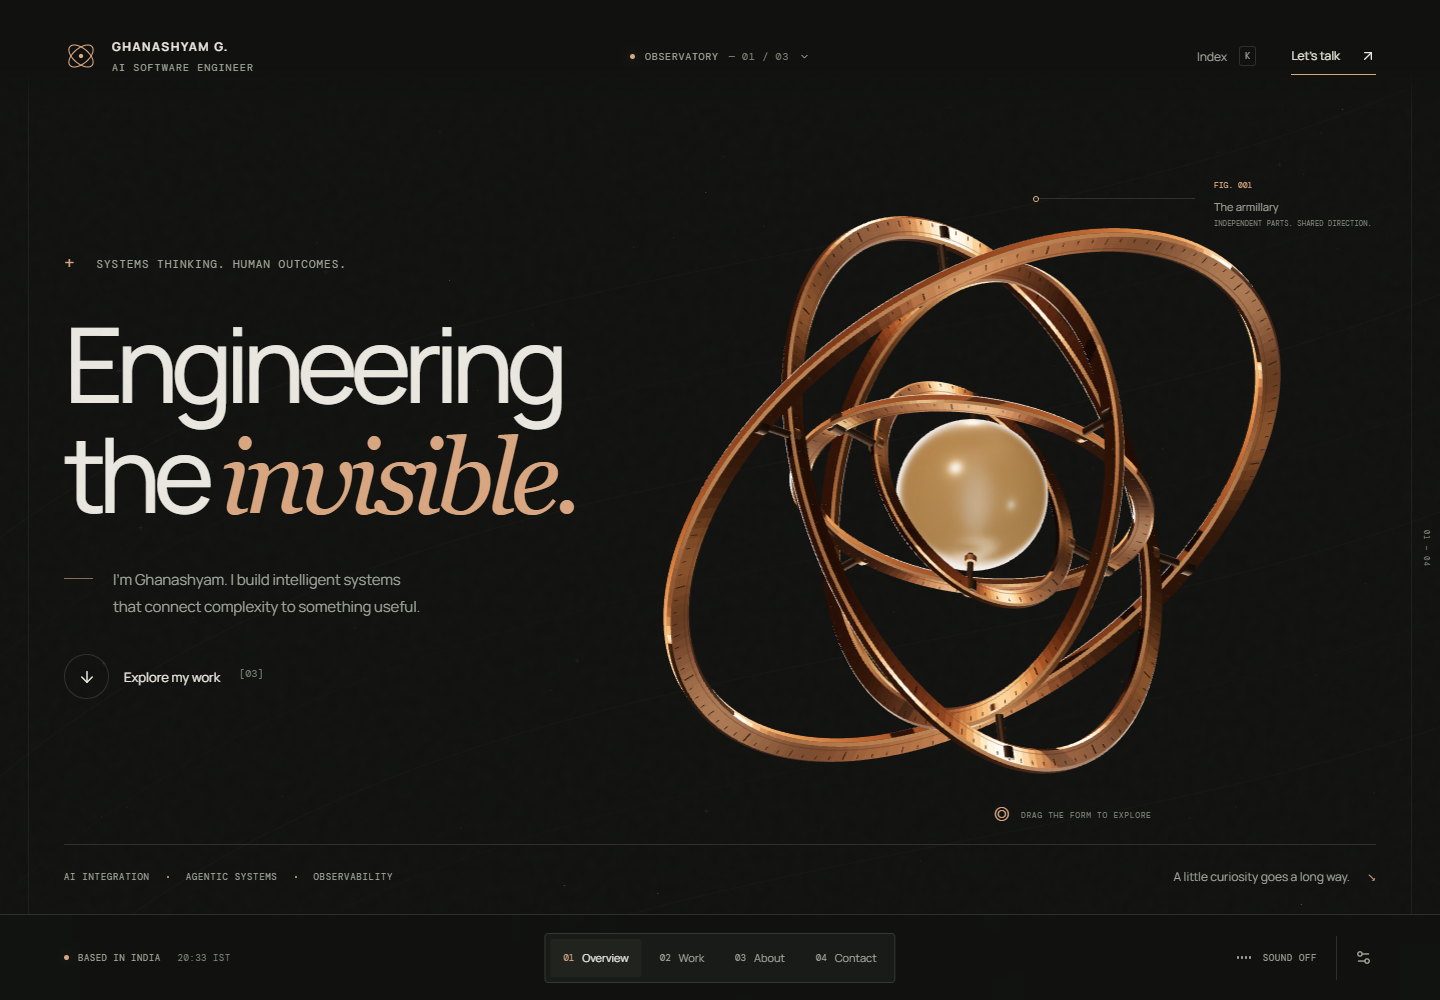
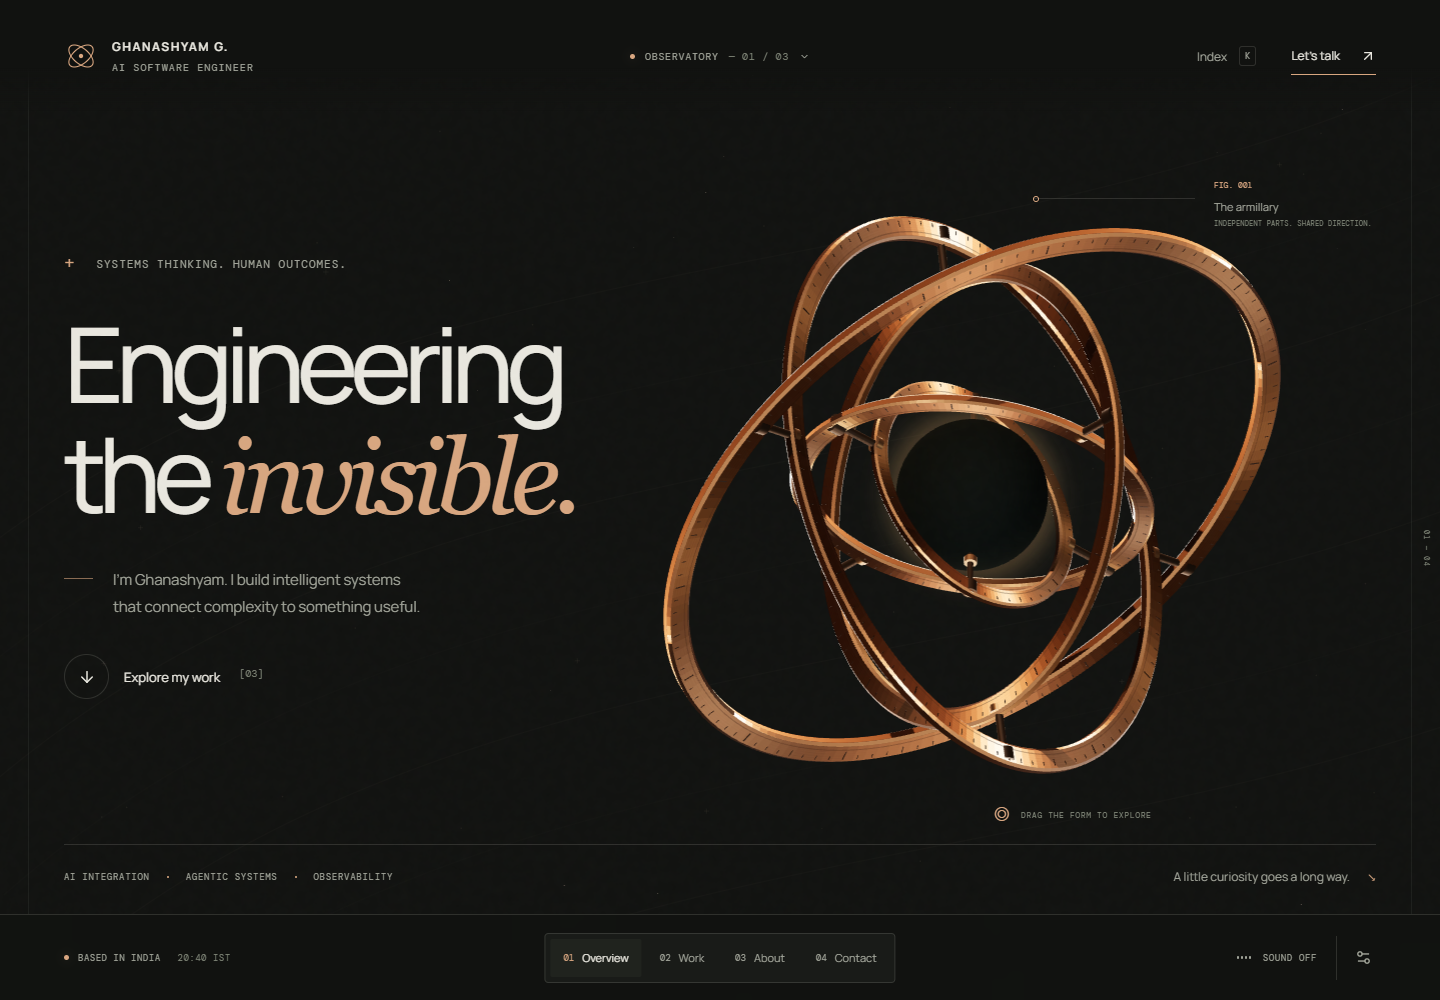
Restore the matte core with a diffuse halo

Changed region(s): [[0.5938, 0.403, 0.75, 0.589]]

diff --git a/components/observatory/armillary.ts b/components/observatory/armillary.ts
@@ -5,9 +5,9 @@ export type ArmillaryScene = "signal" | "systems" | "practice" | "contact";
 
 const TAU = Math.PI * 2;
 const FINISHES = {
-  copper: { band: "#9e633c", edge: "#bd8a61", bearing: "#594333", engraving: "#492f21", ceramic: "#8c6948", coreLight: "#efb66f", signal: "#ffe0b1" },
-  silver: { band: "#a3b1b5", edge: "#d0dadf", bearing: "#53636a", engraving: "#465359", ceramic: "#75888e", coreLight: "#b5d6e6", signal: "#d6edfb" },
-  ink: { band: "#526252", edge: "#98a18b", bearing: "#36483c", engraving: "#aeb49d", ceramic: "#67715a", coreLight: "#d6c092", signal: "#c29b65" },
+  copper: { band: "#9e633c", edge: "#bd8a61", bearing: "#594333", engraving: "#492f21", ceramic: "#242825", coreLight: "#efb66f", signal: "#ffe0b1" },
+  silver: { band: "#a3b1b5", edge: "#d0dadf", bearing: "#53636a", engraving: "#465359", ceramic: "#20282d", coreLight: "#b5d6e6", signal: "#d6edfb" },
+  ink: { band: "#526252", edge: "#98a18b", bearing: "#36483c", engraving: "#aeb49d", ceramic: "#26342c", coreLight: "#d6c092", signal: "#c29b65" },
 } satisfies Record<ArmillaryPalette, Record<string, string>>;
 type Finish = keyof typeof FINISHES.copper;
 
@@ -170,10 +170,27 @@ export function createArmillary(compact: boolean, palette: ArmillaryPalette) {
   const etching = material(new THREE.MeshStandardMaterial({ metalness: .4, roughness: .65, envMapIntensity: .5 }), "engraving");
   const tracks = material(new THREE.LineBasicMaterial({ transparent: true, opacity: .29, depthWrite: false }), "engraving");
   const ceramic = material(new THREE.MeshPhysicalMaterial({
-    metalness: .22, roughness: .28, clearcoat: .48, clearcoatRoughness: .24, envMapIntensity: .65,
-    emissive: finishTargets[palette].coreLight, emissiveIntensity: .28,
+    metalness: 0, roughness: .92, clearcoat: 0, specularIntensity: .08, envMapIntensity: .12,
   }), "ceramic");
-  changingColors.push({ color: ceramic.emissive, finish: "coreLight" });
+  // A separate, depth-tested halo glows outside the dark surface without adding sheen.
+  const haloSize = 128, haloPixels = new Uint8Array(haloSize * haloSize * 4);
+  for (let y = 0; y < haloSize; y++) {
+    for (let x = 0; x < haloSize; x++) {
+      const radius = Math.hypot((x + .5) / haloSize * 2 - 1, (y + .5) / haloSize * 2 - 1);
+      const light = Math.exp(-Math.pow(Math.max(0, radius - .58) / .145, 2));
+      const fade = 1 - THREE.MathUtils.smoothstep(radius, .88, 1);
+      const offset = (y * haloSize + x) * 4;
+      haloPixels[offset] = haloPixels[offset + 1] = haloPixels[offset + 2] = 255;
+      haloPixels[offset + 3] = Math.round(light * fade * 255);
+    }
+  }
+  const haloMap = new THREE.DataTexture(haloPixels, haloSize, haloSize, THREE.RGBAFormat);
+  haloMap.minFilter = haloMap.magFilter = THREE.LinearFilter;
+  haloMap.needsUpdate = true;
+  textures.add(haloMap);
+  const coreHaloMaterial = material(new THREE.SpriteMaterial({
+    map: haloMap, transparent: true, opacity: .22, depthWrite: false, depthTest: true, toneMapped: false,
+  }), "coreLight");
   const signal = material(new THREE.MeshBasicMaterial({
     transparent: true, opacity: .65, vertexColors: true,
     blending: THREE.AdditiveBlending, depthWrite: false, toneMapped: false, side: THREE.DoubleSide,
@@ -271,10 +288,14 @@ export function createArmillary(compact: boolean, palette: ArmillaryPalette) {
   });
 
   const core = new THREE.Group();
-  core.name = "Luminous reference core";
+  core.name = "Matte reference core with a soft halo";
   core.rotation.set(.26, .18, -.15);
   pivots[pivots.length - 1].add(core);
   addMesh(core, geometry(new THREE.SphereGeometry(.51, compact ? 40 : 64, compact ? 26 : 40)), ceramic, "Ceramic centre");
+  const coreHalo = new THREE.Sprite(coreHaloMaterial);
+  coreHalo.name = "Diffuse core halo";
+  coreHalo.scale.set(1.68, 1.68, 1);
+  core.add(coreHalo);
   addGimbal(pivots[pivots.length - 1], RINGS[RINGS.length - 1].radius, .54, "x", true);
 
   const signalCarrier = new THREE.Group();

diff --git a/components/observatory/Sculpture.tsx b/components/observatory/Sculpture.tsx
@@ -151,10 +151,16 @@ function StaticSculpture({ palette }: { palette: PaletteName }) {
           <stop stopColor={dark} /><stop offset=".22" stopColor={highlight} /><stop offset=".46" stopColor={metal} /><stop offset=".72" stopColor={highlight} /><stop offset="1" stopColor={dark} />
         </linearGradient>
         <radialGradient id={`armillary-core-${id}`} cx=".32" cy=".26" r=".75">
-          <stop stopColor={ink ? "#e4d8b0" : silver ? "#e0f1f5" : "#ffe0b0"} /><stop offset=".35" stopColor={ink ? "#a9a782" : silver ? "#b0cbd3" : "#d0a575"} /><stop offset="1" stopColor={ink ? "#646b4f" : silver ? "#647d86" : "#896541"} />
+          <stop stopColor={ink ? "#455343" : silver ? "#354148" : "#3b3e36"} /><stop offset=".48" stopColor={ink ? "#2c392e" : silver ? "#242c31" : "#252923"} /><stop offset="1" stopColor={ink ? "#19291e" : "#101811"} />
+        </radialGradient>
+        <radialGradient id={`armillary-halo-${id}`}>
+          <stop offset=".60" stopColor={silver ? "#b5d6e6" : ink ? "#d6c092" : "#efb66f"} stopOpacity=".22" />
+          <stop offset=".76" stopColor={silver ? "#b5d6e6" : ink ? "#d6c092" : "#efb66f"} stopOpacity=".09" />
+          <stop offset="1" stopColor={silver ? "#b5d6e6" : ink ? "#d6c092" : "#efb66f"} stopOpacity="0" />
         </radialGradient>
       </defs>
       <g strokeLinecap="round" strokeLinejoin="round">{drawArcs(false)}{drawTicks(false)}</g>
+      <circle cx="300" cy="300" r="82" fill={`url(#armillary-halo-${id})`} />
       <circle cx="300" cy="300" r="50" fill={`url(#armillary-core-${id})`} />
       <g strokeLinecap="round" strokeLinejoin="round">{drawArcs(true)}{drawTicks(true)}</g>
     </svg>
@@ -228,7 +234,7 @@ export default function Sculpture({ scene = "signal", palette = "copper", paused
     sculpture.traverse(object => {
       if (object instanceof THREE.Mesh && /Bevelled satin|Ceramic centre/.test(object.name)) {
         object.castShadow = !compact;
-        // Keep the luminous core smooth; band shadows otherwise read as a seam.
+        // Keep the matte core smooth; band shadows otherwise read as a seam.
         object.receiveShadow = !compact && object.name !== "Ceramic centre";
       }
     });
@@ -564,7 +570,7 @@ export default function Sculpture({ scene = "signal", palette = "copper", paused
       data-drag-hit="false"
       data-dragging="false"
       role="img"
-      aria-label={`A kinetic armillary with five nested metallic rings and a softly glowing centre.${ready ? " Drag or use arrow keys to rotate; press R to reset." : ""}`}
+      aria-label={`A kinetic armillary with five nested metallic rings around a matte black centre with a soft halo.${ready ? " Drag or use arrow keys to rotate; press R to reset." : ""}`}
       tabIndex={ready ? 0 : -1}
       style={{ position: "absolute", inset: 0, cursor: "default", touchAction: "pan-y" }}
     >

diff --git a/docs/DESIGN.md b/docs/DESIGN.md
@@ -1,6 +1,6 @@
 # The Observatory: design direction
 
-The portfolio presents Ghanashyam's AI and systems engineering practice as an explorable instrument. A kinetic armillary gives the experience a recognizable visual identity: five machined rings around a softly glowing ceramic core, with warm light travelling through the form. Readable editorial content and interactive project models explain the work. The visual story is connection, inspection and understanding.
+The portfolio presents Ghanashyam's AI and systems engineering practice as an explorable instrument. A kinetic armillary gives the experience a recognizable visual identity: five machined rings around a matte black ceramic core with a diffuse halo, with warm light travelling through the form. Readable editorial content and interactive project models explain the work. The visual story is connection, inspection and understanding.
 
 This MVP contains **one experience with three visual treatments**, selectable in Experience settings. It does not contain three independently designed websites. The material choice changes the interface palette and sculpture finish while preserving the same content, navigation and interactions.
 
@@ -8,7 +8,7 @@ This MVP contains **one experience with three visual treatments**, selectable in
 
 | Treatment | Interface | Artwork and intended feeling |
 | --- | --- | --- |
-| Observatory / copper, default | Warm graphite `#111210`, porcelain `#e9e7df`, copper accent `#d8a680` | Machined copper rings and a softly glowing ceramic core; tactile detail and warm travelling light. |
+| Observatory / copper, default | Warm graphite `#111210`, porcelain `#e9e7df`, copper accent `#d8a680` | Machined copper rings and a matte black ceramic core with a diffuse halo; tactile detail and warm travelling light. |
 | Field notes / ink | Paper `#e8e5dc`, dark ink `#242b26`, brown accent `#73583f` | The same armillary with an ink-compatible finish; a technical notebook with an editorial character. |
 | After hours / silver | Blue-black `#0e1419`, pale silver `#e4e9eb`, blue-grey accent `#afc9d7` | The same armillary with a cool metallic finish; a more nocturnal, cinematic atmosphere. |
 
@@ -51,7 +51,7 @@ A sparse mathematical field adds depth behind the sculpture: partial curves, plo
 
 On desktop, a small dot tracks the pointer immediately while a faint ring follows with a short ease. The ring expands over controls, introduces directional marks over the sculpture, and contracts during a drag. Text selection and inputs retain native behavior; keyboard navigation hides the decoration. A pointer-transparent manual popover keeps it visible over dialogs and menus without changing their focus. The enhancement requires a fine pointer, an available Popover API, and motion enabled; other cases retain the browser cursor. Both the ring and atmospheric canvas stop drawing once movement settles.
 
-The owner selected the second sculpture concept: a kinetic armillary with five machined copper rings and a softly glowing ceramic core. This replaces the earlier woven trefoil and supersedes the instruction to retain that sculpture unchanged. The rings, travelling light, drag inertia, and chapter alignment belong to this new form; the surrounding layout, material selector, native scrolling, keyboard controls, Pause, reduced motion, and SVG fallback remain part of the experience. Earlier trefoil screenshots and hit-area checks are historical evidence, not verification of the replacement.
+The owner selected the second sculpture concept: a kinetic armillary with five machined copper rings and a matte black ceramic core with a diffuse halo. This replaces the earlier woven trefoil and supersedes the instruction to retain that sculpture unchanged. The rings, travelling light, drag inertia, and chapter alignment belong to this new form; the surrounding layout, material selector, native scrolling, keyboard controls, Pause, reduced motion, and SVG fallback remain part of the experience. Earlier trefoil screenshots and hit-area checks are historical evidence, not verification of the replacement.
 
 Between the practice notes and career timeline, “INSIDE THE PRODUCT / Software, engineered end to end.” introduces the illustration. The short supporting sentence is “I build interfaces, backend systems, and AI workflows.” This includes interface development and uses direct engineering language. The Practice section keeps three principles: Systems engineering, Applied intelligence, and Operational clarity. A compact application window frames a tall, thin rhombus with a glowing circular centre. Its long diagonal is approximately 1.6 times its width. The window measures 220×136px on desktop and 200×124px on phones, around 60% less area than its previous version. Quiet controls, navigation, tabs, and a status strip retain the application character. The window itself is the Interface component: it stays visible as it moves from 32% to 12% of the stage height and shrinks to 52px wide by .52 reveal progress. Fine chrome recedes as it becomes small, while its silhouette and diamond persist. The introductory copy fades independently. Authenticated API boundaries, application services, agents, retrieval, models, queues, workers, data, a vector index, caching, tools, and integrations open underneath. Observability accompanies the whole system.
 

diff --git a/README.md b/README.md
@@ -25,7 +25,7 @@ Direct material links: `/?theme=copper`, `/?theme=ink`, and `/?theme=silver`.
 
 ## Explore the prototype
 
-- **Turn the armillary.** Five machined copper rings nest around a softly glowing ceramic core. A warm light travels through the form as the rings turn slowly about different axes; scrolling aligns the sculpture with each chapter. Drag to rotate it and release for a gentle inertial settle. A precise desktop dot and softly following cursor ring adapt to controls and dragging; text inputs and touch/reduced-motion use native behavior. Focus the sculpture and use arrow keys; press **R** to reset.
+- **Turn the armillary.** Five machined copper rings nest around a matte black ceramic core with a diffuse halo. A warm light travels through the form as the rings turn slowly about different axes; scrolling aligns the sculpture with each chapter. Drag to rotate it and release for a gentle inertial settle. A precise desktop dot and softly following cursor ring adapt to controls and dragging; text inputs and touch/reduced-motion use native behavior. Focus the sculpture and use arrow keys; press **R** to reset.
 - **Scroll naturally** through the four chapters, use the bottom navigation, or press **K** for the index.
 - **Inspect selected systems.** Relay has explorable workflow stages. The LLM observability model has selectable trace spans and a context budget slider. AIDA changes prepared SQL and sample results when you select a question.
 - **Look closer at the experience.** The career record runs chronologically from ContentEaseAI to Oracle, with concise year labels. Open any entry for contributions, technologies, location, and previous/next navigation. Selected engineering, applied-AI, and observability skills sit beside the practice notes.
@@ -82,7 +82,7 @@ The armillary production build and 14 applicable browser checks passed. See [VER
 | `app/refinements.css` | Readability, scroll reveals, touch layouts, and small-screen refinements |
 | `components/observatory/Observatory.tsx` | Chapters, navigation, settings, and contact |
 | `components/observatory/Sculpture.tsx` | Armillary rendering, pointer/keyboard interaction, chapter poses, and static SVG fallback |
-| `components/observatory/armillary.ts` | Procedural nested rings, luminous ceramic core, materials, and travelling light |
+| `components/observatory/armillary.ts` | Procedural nested rings, matte ceramic core and halo, materials, and travelling light |
 | `components/observatory/Atmosphere.tsx` | Pointer-responsive mathematical field and parallax |
 | `components/observatory/Cursor.tsx` | Precise desktop pointer with a softly following ring and native-input fallbacks |
 | `components/observatory/SystemMap.tsx` | Annotated architectural layers revealed by ordinary scrolling |

diff --git a/docs/VERIFICATION.md b/docs/VERIFICATION.md
@@ -1,6 +1,12 @@
 # Verification - 12 September 2026
 
-## Latest: luminous core and contact headline
+## Latest: matte core with a diffuse halo
+
+The owner clarified that glow should surround a matte black sphere. The bright glazed finish is replaced with dark ceramic, high roughness, no clearcoat, and restrained specular response. A separate soft radial halo fades outside the silhouette and is depth-tested against the sphere and rings. The halo follows all three palettes and has no independent animation clock. The centre remains seam-free in WebGL and the SVG fallback.
+
+The final production build and TypeScript passed. The existing armillary and drag-alignment suites passed **12 checks in 51.1 seconds**, with two intentional device-specific skips. Desktop/phone captures show the matte finish without glossy highlights; Copper, Silver, Ink, and the fallback were visually checked. No page errors were captured in the production WebGL sessions. Current preview: **http://127.0.0.1:3001**. Current source, documentation, and screenshots are mirrored to the release checkout. GitHub and Vercel authentication remain pending.
+
+## Previous: core finish and contact headline
 
 The centre now has a softly luminous, glazed finish with palette-matched emission. Both the 3D assembly seam and the SVG seam are removed. The core no longer receives a hard band shadow; its shape still shades smoothly and casts a shadow on the surrounding instrument. The contact headline is the owner's chosen "Let’s build together."
 

diff --git a/docs/PORTFOLIO-REQUIREMENTS.md b/docs/PORTFOLIO-REQUIREMENTS.md
@@ -13,7 +13,7 @@ This is the source of truth for the requested experience. It records the owner's
 
 ## Sculpture: selected kinetic armillary
 
-The owner chose the second proposed sculpture with “do the second,” referring to the copper nested-ring armillary mockup. Replace the woven trefoil with **five machined copper rings nested around a softly glowing ceramic core**, with warm light travelling through the form. The rings should move slowly about different axes, respond to dragging with a gentle inertial settle, and align with the page's chapter poses.
+The owner chose the second proposed sculpture with “do the second,” referring to the copper nested-ring armillary mockup. Replace the woven trefoil with **five machined copper rings nested around a matte black ceramic core with a diffuse halo**, with warm light travelling through the form. The rings should move slowly about different axes, respond to dragging with a gentle inertial settle, and align with the page's chapter poses.
 
 Keep the established page composition, three material treatments, phone layouts, native scrolling, keyboard rotation/reset, Pause, reduced-motion support, and a static SVG fallback. The new sculpture should feel like a precise instrument within the existing Observatory. Earlier screenshots, recordings, and passed checks remain historical evidence for the previous implementation; verify the armillary's appearance, movement, interaction, and fallback separately before claiming it is checked or deployed.
 
